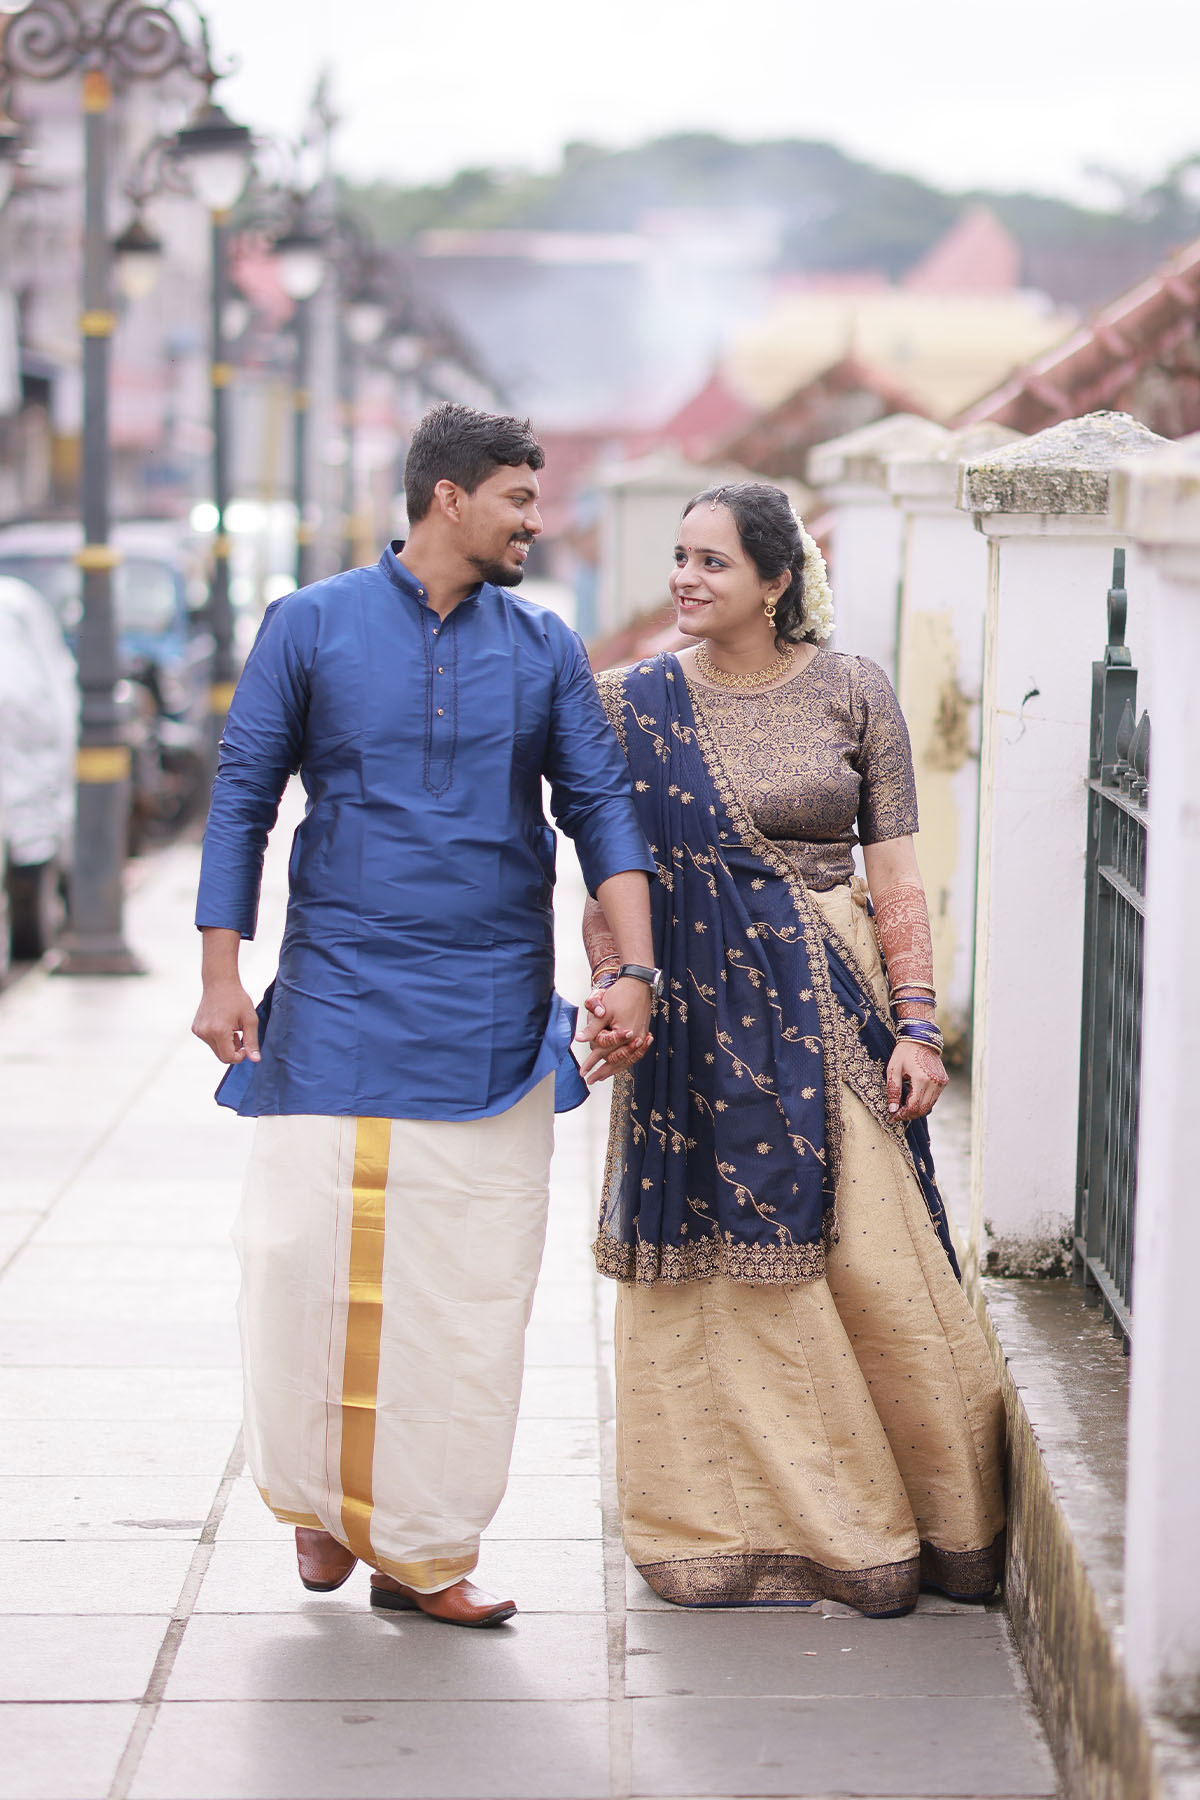
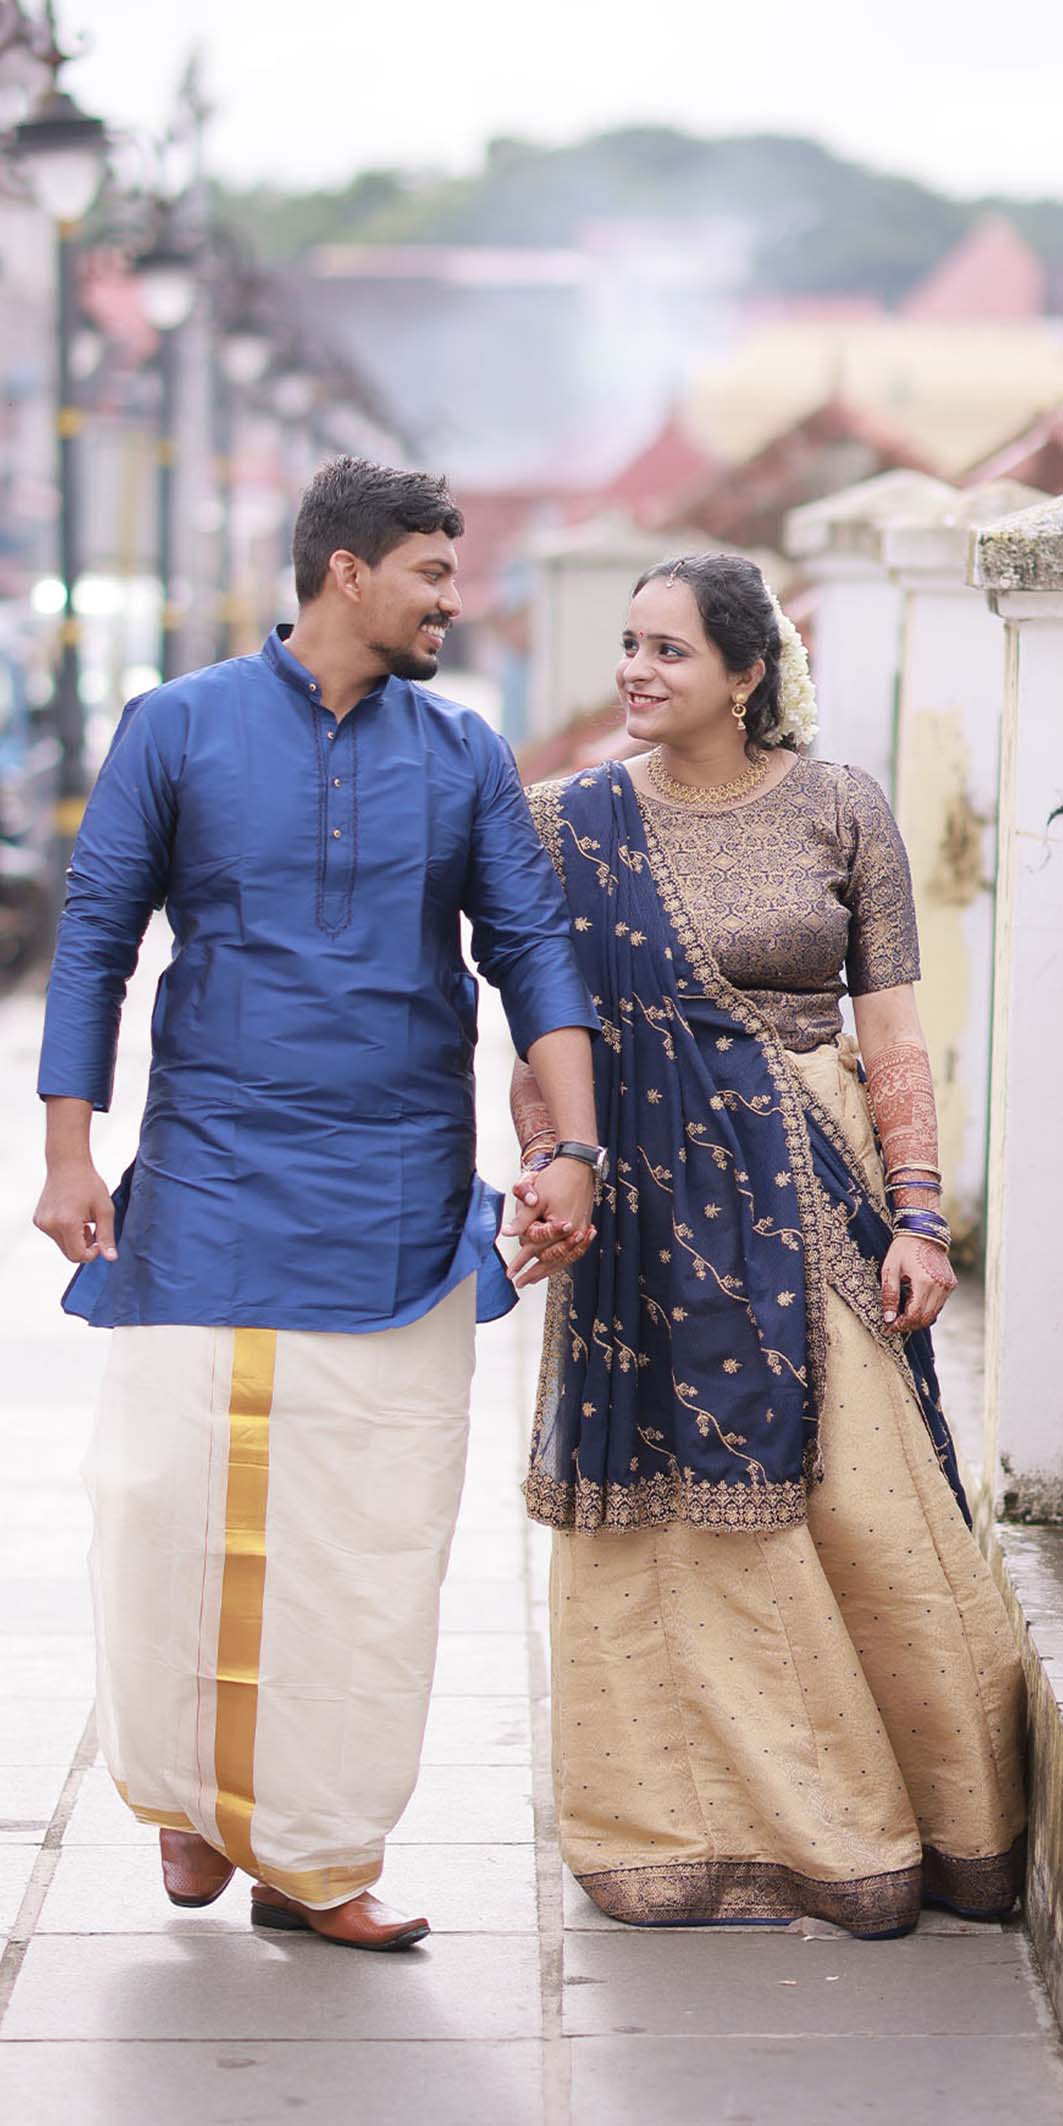
BG Image fixes

diff --git a/index.css b/index.css
@@ -229,7 +229,7 @@ body {
 @media screen and (max-width: 720px) {
     .wedsName {
         font-size: 5rem;
-        padding-top: 120px;
+        padding-top: 150px;
     }
     .scrollDown {
         margin-top: 100px;
@@ -259,9 +259,8 @@ body {
         position: absolute;
         display: flex;
         justify-content: center;
-        left: -20%;
-        bottom: 0;
-        z-index: -1;
+        object-fit: cover;
+        z-index: -50;
         opacity: 50%;
     }
     @media (min-aspect-ratio: 9/16) {

diff --git a/index.html b/index.html
@@ -55,7 +55,9 @@
     <video autoplay muted loop class="myVideo_portrait">
         <source src="https://github.com/Abhijithlal/PadmavathySooraj/raw/main/Videos/Sooraj_Padmavathy_portrait.mp4" type="video/mp4">
     </video>
-    <img src="Images/BackgroundImage.jpg" class="myPhoto">    
+    <div>
+      <img src="Images/BackgroundImage.jpg" class="myPhoto w-100">
+    </div>
     <div class="nameSection">
       <div>
         <h1 class="wedsName">
